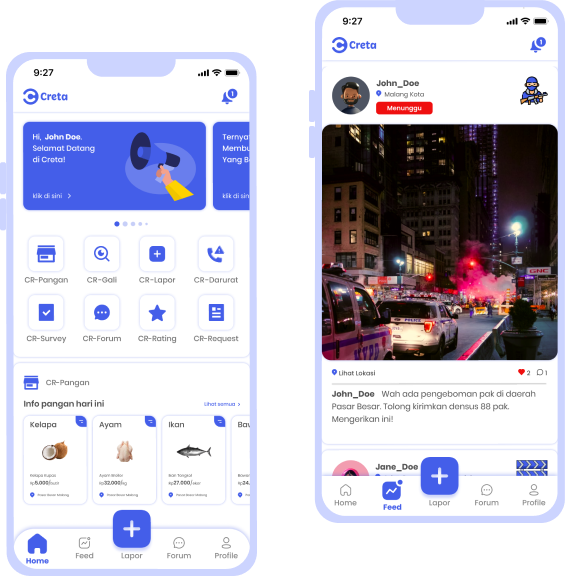
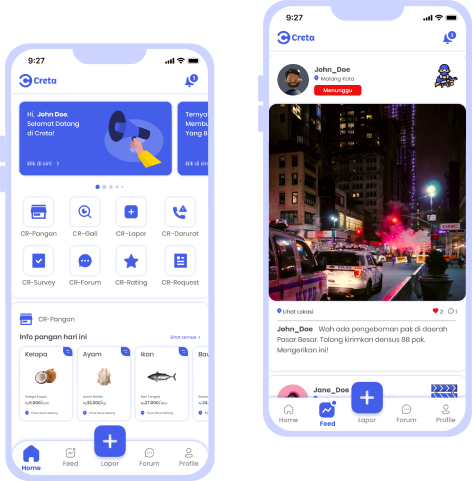
Done

diff --git a/index.html b/index.html
@@ -20,17 +20,17 @@
         <!-- Navbar -->
         <nav class="nav-custom">
             <div class="nav-brand">
-                <img src="./assets/img/logo.png" alt="Creta - Logo">
+                <img src="./assets/img/logo.svg" alt="Creta - Logo">
             </div>
             <div class="nav-custom-link">
                 <a href="#beranda">Beranda</a>
                 <a href="#tentang">Tentang</a>
                 <a href="#fitur">Fitur</a>
-                <a href="kerjasama">Kerjasama</a>
+                <a href="#kerjasama">Kerjasama</a>
             </div>
             <div class="nav-cta-button">
-                <button class="btn-custom-secondary">Masuk</button>
-                <button class="btn-custom-primary">Daftar</button>
+                <a href="#" class="btn-custom-secondary">Masuk</a>
+                <a href="#" class="btn-custom-primary">Daftar</a>
             </div>
         </nav>
 
@@ -50,13 +50,17 @@
 
             <div class="col-lg-7">
                 <div class="w-100 d-flex justify-content-end">
-                    <img src="./assets/img/mockup.png" alt="Mockup Creta">
+                    <img class="mockup" src="./assets/img/mockup.png" alt="Mockup Creta">
                 </div>
             </div>
         </div>
 
     </div>
     
+    <div class="decoration">
+        <img class="dec-1" src="./assets/img/decoration-1.png" alt="Decoration 1">
+        <img class="dec-2" src="./assets/img/decoration-2.png" alt="Decoration 2">
+    </div>
 
     <!-- Option 1: Bootstrap Bundle with Popper -->
     <script src="https://cdn.jsdelivr.net/npm/bootstrap@5.0.1/dist/js/bootstrap.bundle.min.js" integrity="sha384-gtEjrD/SeCtmISkJkNUaaKMoLD0//ElJ19smozuHV6z3Iehds+3Ulb9Bn9Plx0x4" crossorigin="anonymous"></script>

diff --git a/assets/css/style.css b/assets/css/style.css
@@ -29,24 +29,27 @@ nav.nav-custom {
     color: #858585;
 }
 
-button.btn-custom-secondary {
+a.btn-custom-secondary {
     padding: 12px 24px;
     border-radius: 32px;
     background-color: transparent;
     border:1px solid #445EE9;
     color: #445EE9;
+    text-decoration: none;
+    margin-right: 8px;
 }
 
-button.btn-custom-primary {
+a.btn-custom-primary {
     padding: 12px 24px;
     border-radius: 32px;
     background-color: #445EE9;
     border: none;
     color: #F6F8FF;
+    text-decoration: none;
 }
 
 .mt-124 {
-    margin-top: 96px;
+    margin-top: 112px;
 }
 
 .mini-headline {
@@ -57,10 +60,20 @@ button.btn-custom-primary {
     color: #445EE9;
 }
 
+.line-decoration {
+    position: absolute;
+    height: 4px;
+    width: 180px;
+    background-color: #445EE9;
+    left: 331px;
+    top: 206px;
+}
+
 h1.heading {
     font-family: Ubuntu;
     font-size: 48px;
     color: #2E2E2E;
+    font-weight: 500;
 }
 
 p.muted-text {
@@ -72,4 +85,23 @@ p.muted-text {
 p.dark {
     font-weight: 600;
     color: #2E2E2E;
+}
+
+img.mockup {
+    position: absolute;
+    top: 144px;
+}
+
+img.dec-1 {
+    position: absolute;
+    bottom: 150px;
+    right: 576px;
+    z-index: -1;
+}
+
+img.dec-2 {
+    position: absolute;
+    top: 220px;
+    right: 40px;
+    z-index: -1;
 }
